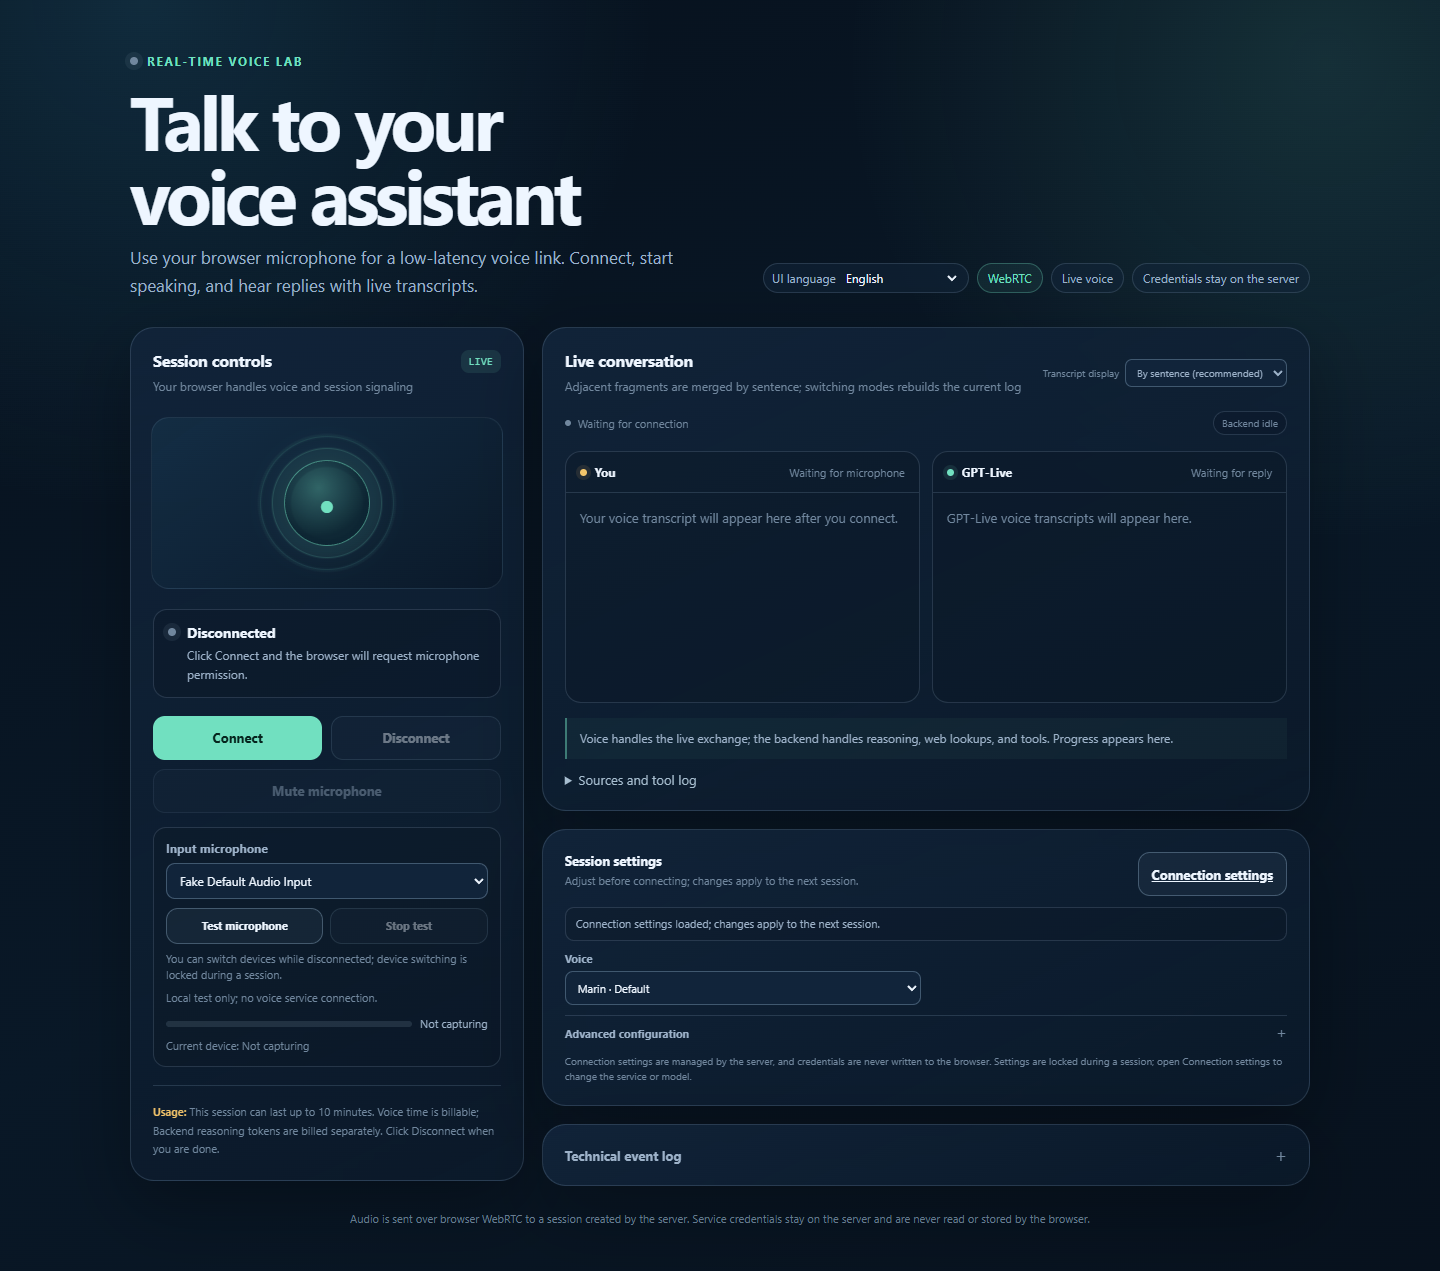
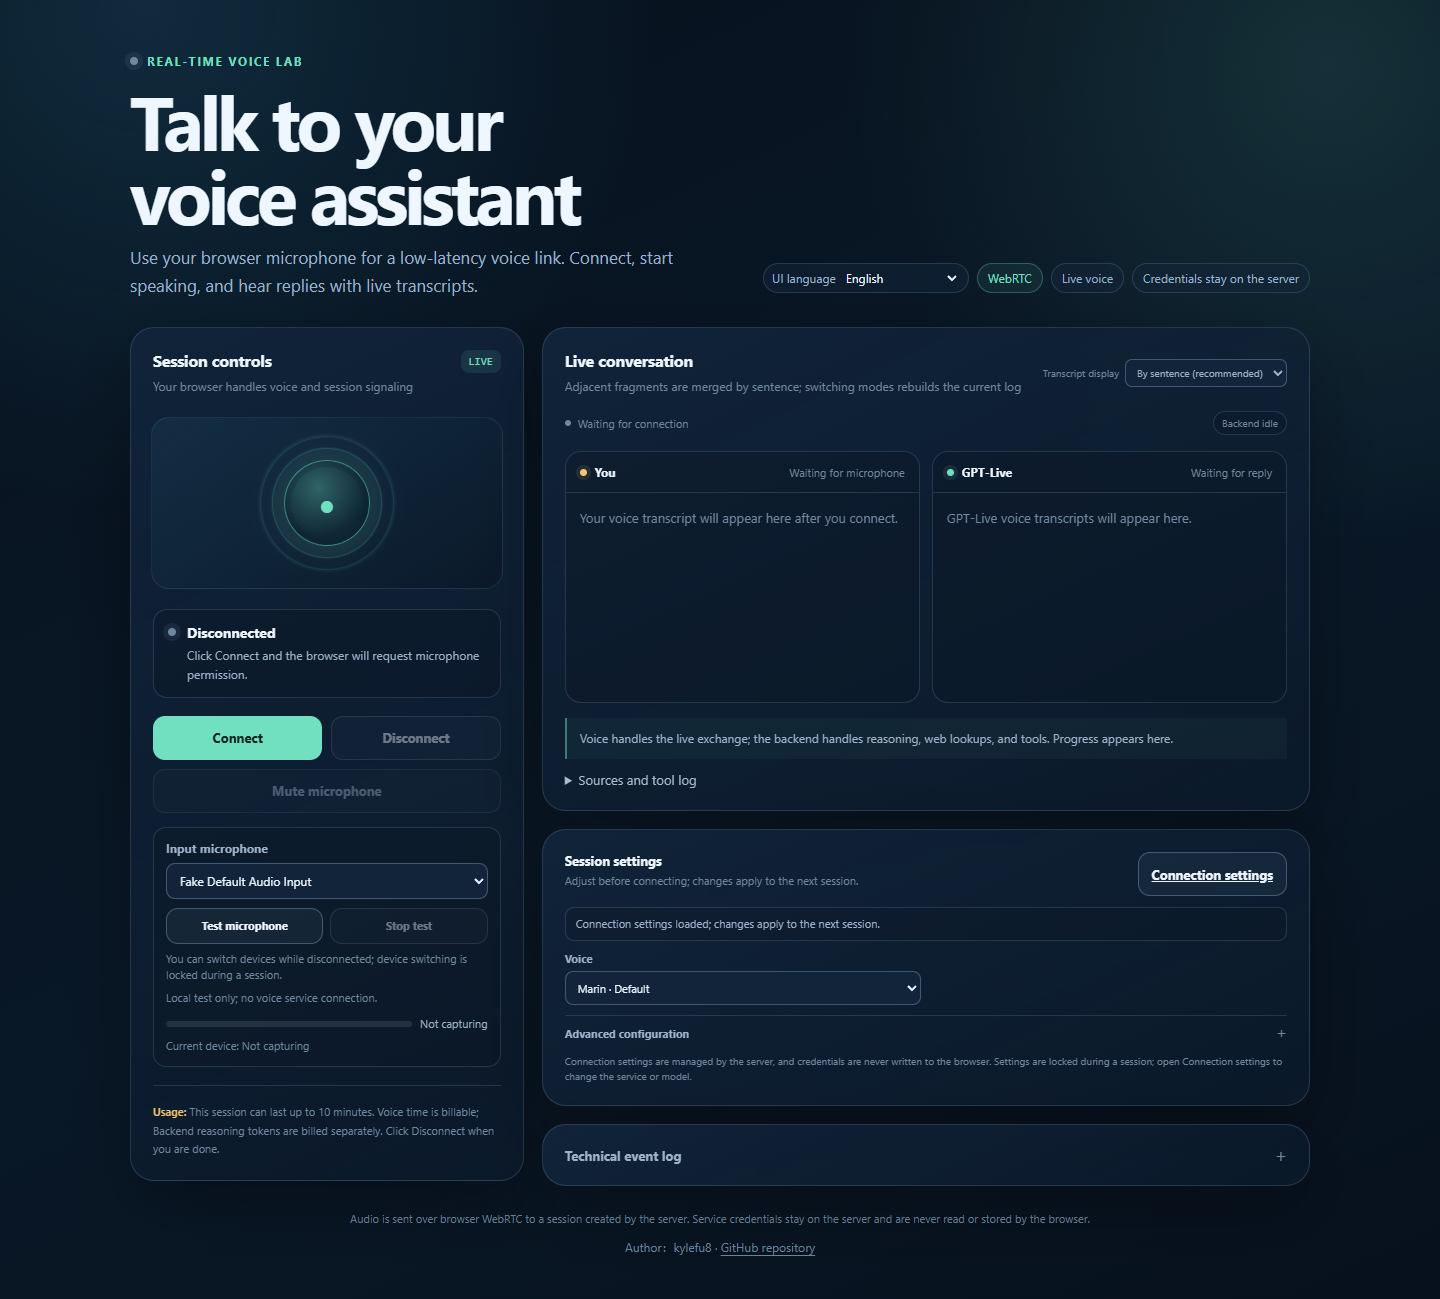
Add bilingual author credit and repository links

diff --git a/public/setup.html b/public/setup.html
@@ -124,6 +124,8 @@
     .remote-password[hidden] { display: none; }
     .remote-password p { margin: 0 0 10px; color: var(--muted); font-size: 12px; line-height: 1.55; }
     .footer-note { margin: 20px 0 0; color: var(--quiet); font-size: 11px; line-height: 1.6; text-align: center; }
+    .project-credit { margin-top: 8px; font-size: 12px; }
+    .project-credit a { color: inherit; text-underline-offset: 3px; }
     .sr-only { position: absolute !important; width: 1px !important; height: 1px !important; padding: 0 !important; margin: -1px !important; overflow: hidden !important; clip: rect(0, 0, 0, 0) !important; white-space: nowrap !important; border: 0 !important; }
     @media (max-width: 660px) {
       .shell { width: min(100% - 24px, 860px); padding-top: 27px; }
@@ -338,6 +340,7 @@
       </section>
     </main>
     <p class="footer-note" data-i18n="setup.footer">需要帮助时，请先确认服务地址和部署名称拼写正确，并用“测试连接”查看实际错误提示。</p>
+    <p class="footer-note project-credit"><span data-i18n="setup.footer.author">作者</span>：kylefu8 · <a href="https://github.com/kylefu8/gpt-live-1-demo" target="_blank" rel="noopener noreferrer" data-i18n="setup.footer.repository">GitHub 项目仓库</a></p>
   </div>
 
   <script src="/i18n.js"></script>

diff --git a/public/index.html b/public/index.html
@@ -1012,6 +1012,9 @@
       text-align: center;
     }
 
+    .project-credit { margin-top: 8px; font-size: 12px; }
+    .project-credit a { color: inherit; text-underline-offset: 3px; }
+
     .sr-only {
       position: absolute;
       width: 1px;
@@ -1271,6 +1274,7 @@
     </main>
 
     <p class="footer-note" data-i18n="main.footer.note">音频通过浏览器 WebRTC 发送到服务端创建的会话；服务凭据只在服务端保存，浏览器不会读取或保存。</p>
+    <p class="footer-note project-credit"><span data-i18n="main.footer.author">作者</span>：kylefu8 · <a href="https://github.com/kylefu8/gpt-live-1-demo" target="_blank" rel="noopener noreferrer" data-i18n="main.footer.repository">GitHub 项目仓库</a></p>
   </div>
 
   <audio id="remoteAudio" autoplay playsinline class="sr-only" aria-label="GPT-Live 语音回复" data-i18n-aria-label="main.audio.aria"></audio>

diff --git a/public/locales/setup.js b/public/locales/setup.js
@@ -2,6 +2,8 @@
   "use strict";
 
   const dictionary = {
+    "setup.footer.author": { "zh-CN": "作者", en: "Author" },
+    "setup.footer.repository": { "zh-CN": "GitHub 项目仓库", en: "GitHub repository" },
     "setup.document.title": { "zh-CN": "连接设置 · 实时语音助手", en: "Connection setup · Real-time voice assistant" },
     "setup.eyebrow": { "zh-CN": "连接设置", en: "Connection setup" },
     "setup.hero.titleLine1": { "zh-CN": "准备你的", en: "Set up your " },

diff --git a/public/locales/main.js b/public/locales/main.js
@@ -2,6 +2,8 @@
   "use strict";
 
   var dictionary = {
+    "main.footer.author": { "zh-CN": "作者", en: "Author" },
+    "main.footer.repository": { "zh-CN": "GitHub 项目仓库", en: "GitHub repository" },
     "main.page.title": { "zh-CN": "实时语音助手", en: "Real-time voice assistant" },
     "main.ui.language": { "zh-CN": "界面语言", en: "UI language" },
     "main.ui.zh": { "zh-CN": "简体中文", en: "Simplified Chinese" },

diff --git a/docs/RELEASE.md b/docs/RELEASE.md
@@ -2,7 +2,7 @@
 
 [简体中文](RELEASE.zh-CN.md) | English
 
-This project publishes source on GitHub and can publish a self-contained Windows x64 ZIP. The current release is `v0.2.0`; use the same process for each new tag.
+This project publishes source on GitHub and can publish a self-contained Windows x64 ZIP. The current release is `v0.2.1`; use the same process for each new tag.
 
 ## Before a release
 
@@ -69,7 +69,7 @@ Before pushing a tag:
 1. Update `package.json` and `package-lock.json` to the intended version.
 2. Update `docs/RELEASE-NOTES.md` and both README language versions if user-visible behavior changed.
 3. Commit and push the source changes.
-4. Create and push the exact tag, for example `v0.2.0`.
+4. Create and push the exact tag, for example `v0.2.1`.
 5. Check the workflow logs, uploaded ZIP, SHA-256 file, and release page.
 
 The Docker CI smoke test proves that an empty local container starts and serves its health/setup endpoints. It does not prove that a provider account works, that browser microphone permissions work on a deployed host, or that the Render template has been live deployed.

diff --git a/docs/RELEASE.zh-CN.md b/docs/RELEASE.zh-CN.md
@@ -2,7 +2,7 @@
 
 简体中文 | [English](RELEASE.md)
 
-项目在 GitHub 发布源码，也可以发布自带运行时的 Windows x64 ZIP。当前版本是 `v0.2.0`；后续发布新版本时沿用同一流程。
+项目在 GitHub 发布源码，也可以发布自带运行时的 Windows x64 ZIP。当前版本是 `v0.2.1`；后续发布新版本时沿用同一流程。
 
 ## 发布前
 
@@ -69,7 +69,7 @@ Windows 发布工作流在 `v*` 标签或手动触发时运行：安装依赖，
 1. 将 `package.json` 和 `package-lock.json` 更新到目标版本。
 2. 如果用户可见行为有变化，更新 `docs/RELEASE-NOTES.md` 和两个 README 版本。
 3. 提交并推送源码改动。
-4. 创建并推送准确的标签，例如 `v0.2.0`。
+4. 创建并推送准确的标签，例如 `v0.2.1`。
 5. 检查工作流日志、上传的 ZIP、SHA-256 文件和发布页。
 
 Docker CI 冒烟测试证明空配置的本机容器可以启动并提供健康/设置接口。它不证明某个服务账户可用，不证明已部署主机上的浏览器麦克风权限可用，也不证明 Render 模板已经线上部署。

diff --git a/README.md b/README.md
@@ -14,7 +14,7 @@ Project: <https://github.com/kylefu8/gpt-live-1-demo>
 
 ## Try it as an end user
 
-The easiest path on Windows is the published Windows x64 ZIP from [GitHub Releases](https://github.com/kylefu8/gpt-live-1-demo/releases/latest). The current public release is `v0.2.0`.
+The easiest path on Windows is the published Windows x64 ZIP from [GitHub Releases](https://github.com/kylefu8/gpt-live-1-demo/releases/latest). The current public release is `v0.2.1`.
 
 1. Download the complete ZIP and extract it to a new folder. Keep `Start.cmd`, `runtime`, and `app` together.
 2. Double-click `Start.cmd`.

diff --git a/README.zh-CN.md b/README.zh-CN.md
@@ -14,7 +14,7 @@
 
 ## 普通用户最快开始
 
-Windows 用户最省事的方式是从 [GitHub Releases](https://github.com/kylefu8/gpt-live-1-demo/releases/latest) 下载 Windows x64 ZIP。当前公开版本是 `v0.2.0`。
+Windows 用户最省事的方式是从 [GitHub Releases](https://github.com/kylefu8/gpt-live-1-demo/releases/latest) 下载 Windows x64 ZIP。当前公开版本是 `v0.2.1`。
 
 1. 下载完整 ZIP 并解压到新文件夹。请让 `Start.cmd`、`runtime` 和 `app` 保持在同一层级。
 2. 双击 `Start.cmd`。

diff --git a/docs/DEPLOYMENT.md b/docs/DEPLOYMENT.md
@@ -12,7 +12,7 @@ Choose the path that matches the person using the application:
 
 ## Windows release
 
-The public `v0.2.0` Windows x64 release includes the official Node.js 24 runtime.
+The public `v0.2.1` Windows x64 release includes the official Node.js 24 runtime.
 
 1. Download the complete ZIP from [GitHub Releases](https://github.com/kylefu8/gpt-live-1-demo/releases/latest).
 2. Extract it without separating `Start.cmd`, `runtime`, or `app`.

diff --git a/docs/RELEASE-NOTES.md b/docs/RELEASE-NOTES.md
@@ -1,5 +1,10 @@
 # Release notes / 发布说明
 
+## v0.2.1 / 作者与项目链接
+
+- Add author credit and a GitHub repository link to the conversation and setup pages, in both interface languages. The link opens in a new tab.
+- 主界面和配置向导底部新增作者及 GitHub 项目链接，支持中英文，点击后在新标签页打开。
+
 ## v0.2.0 / 中英文版
 
 ### English

diff --git a/docs/DEPLOYMENT.zh-CN.md b/docs/DEPLOYMENT.zh-CN.md
@@ -12,7 +12,7 @@
 
 ## Windows 发行包
 
-公开的 `v0.2.0` Windows x64 发行包已包含官方 Node.js 24 运行时。
+公开的 `v0.2.1` Windows x64 发行包已包含官方 Node.js 24 运行时。
 
 1. 从 [GitHub Releases](https://github.com/kylefu8/gpt-live-1-demo/releases/latest) 下载完整 ZIP。
 2. 解压时不要拆开 `Start.cmd`、`runtime` 和 `app`。
